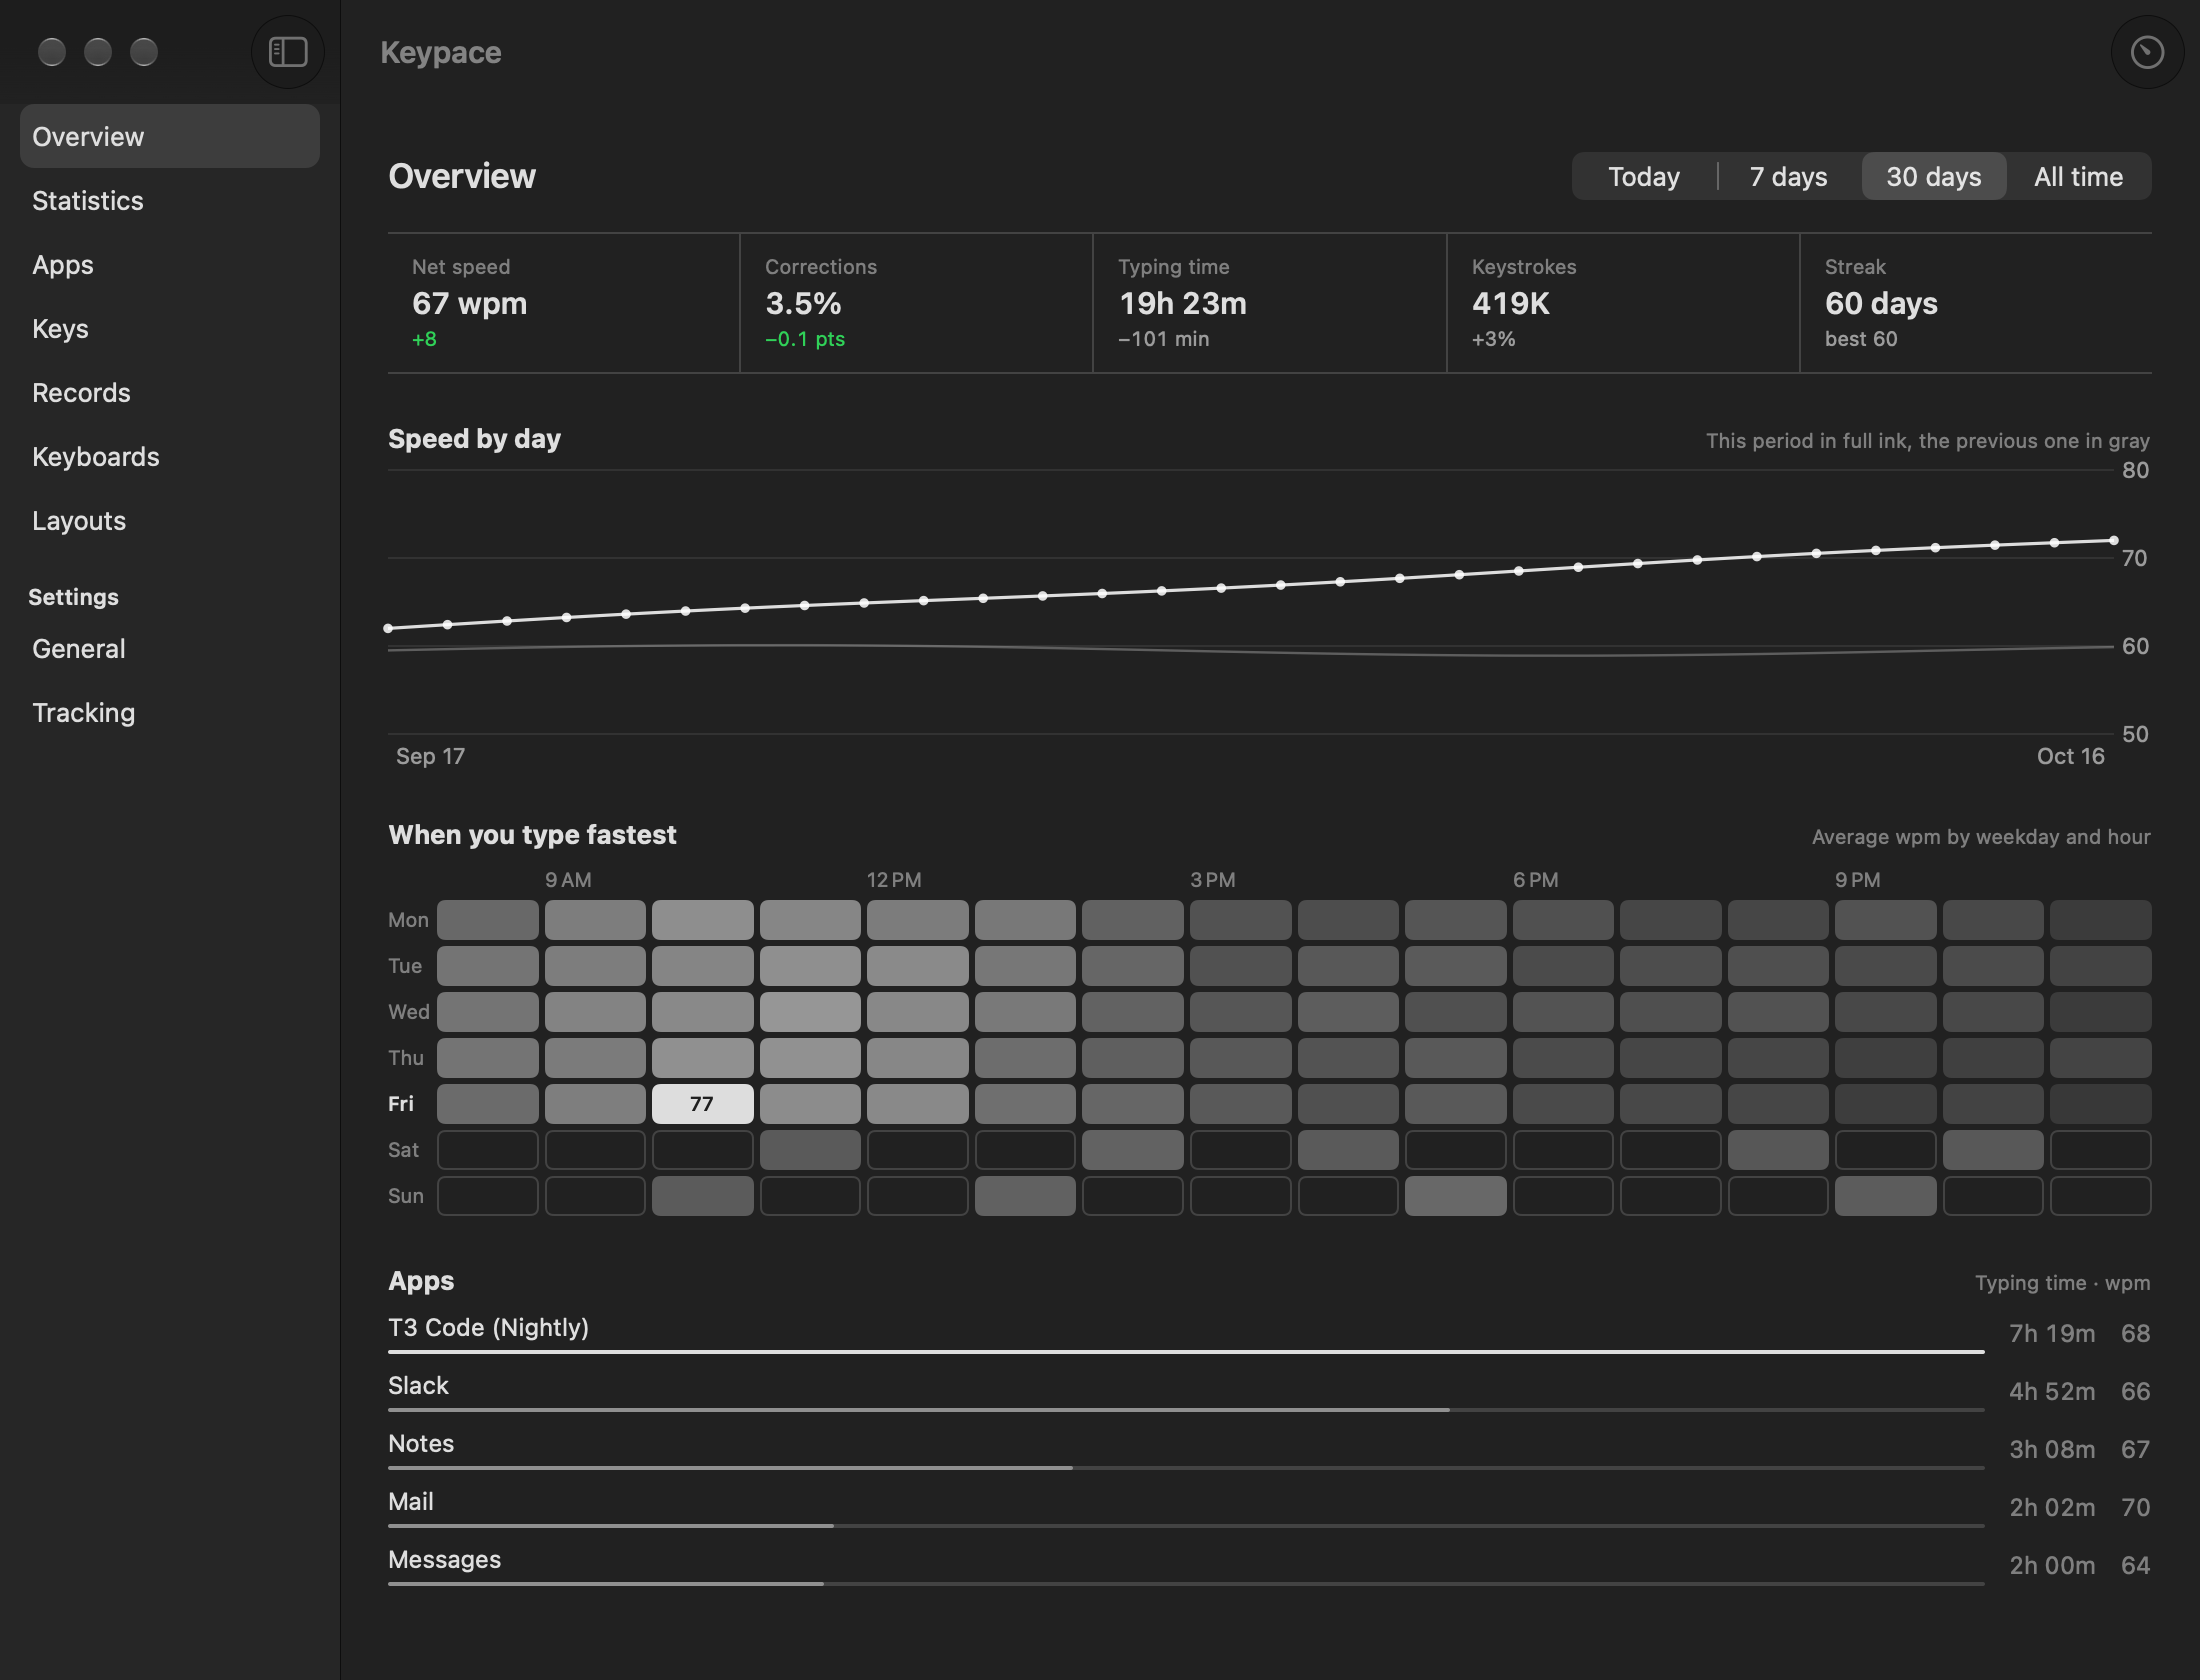
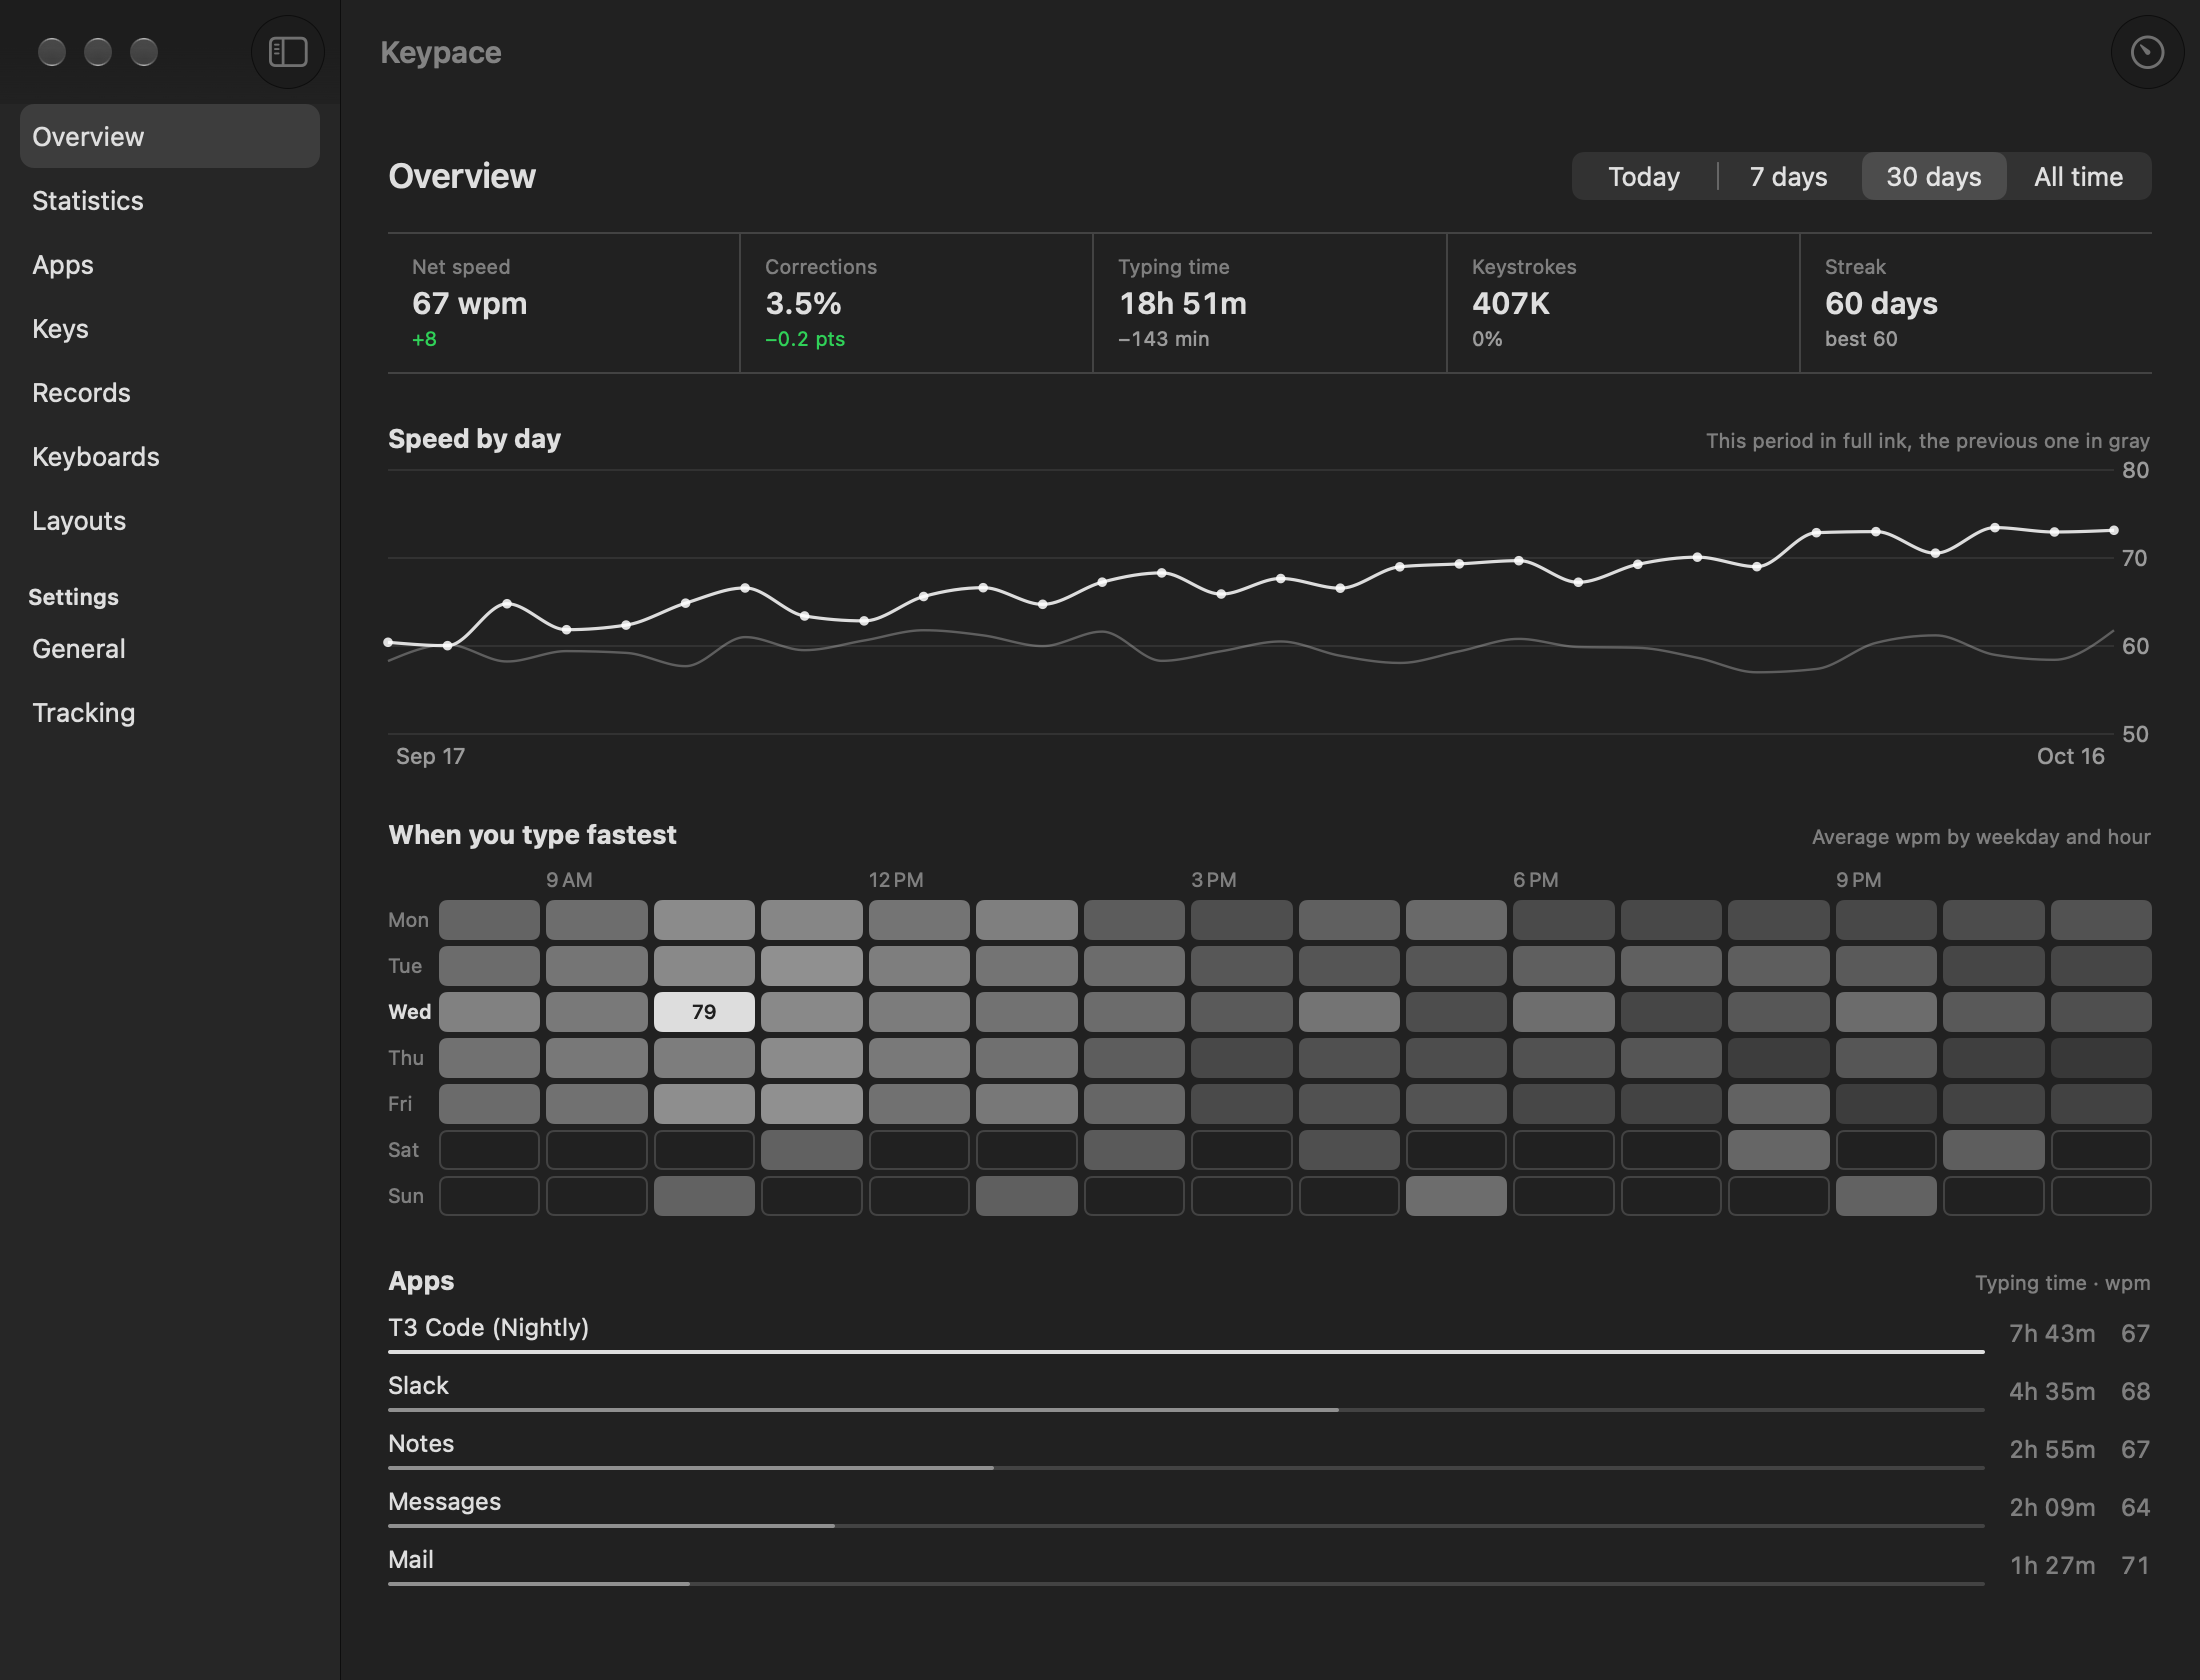
docs: give showcase speeds natural day-to-day variation

diff --git a/KeypaceTests/ReadmeHistory.swift b/KeypaceTests/ReadmeHistory.swift
@@ -7,6 +7,9 @@ enum ReadmeHistory {
     static func fill(_ tracker: LiveTracker, endingAt end: Date, calendar: Calendar = .current) throws {
         guard let store = tracker.store else { preconditionFailure("Showcase history needs an in-memory store") }
         var generator = SeededGenerator(seed: 20261016)
+        // Each weekday hour keeps its own small lean across weeks, so the heatmap isn't striped by column.
+        var cellGenerator = SeededGenerator(seed: 7)
+        let cellBias = (0..<7).map { _ in (0..<24).map { _ in Double.random(in: -3.5...3.5, using: &cellGenerator) } }
         let firstDay = calendar.date(byAdding: .day, value: -59, to: calendar.startOfDay(for: end))!
         try store.noteKeyboard(SampleData.builtIn)
         try store.noteKeyboard(SampleData.mxKeys)
@@ -21,6 +24,8 @@ enum ReadmeHistory {
             let progress = Double(max(dayIndex - 30, 0)) / 29
             let target = dayIndex < 30 ? 59.5 + 0.6 * sin(Double(dayIndex) * 0.24)
                 : 62 + 10 * progress + 0.25 * sin(progress * .pi * 3)
+            // Real days wobble around the trend.
+            let dayTarget = target + Double.random(in: -2.4...2.4, using: &generator)
             var sessions: [(session: TypingSession, start: Date)] = []
 
             for hour in hours {
@@ -74,9 +79,9 @@ enum ReadmeHistory {
                 }
                 session.activeDuration *= Double(repeats)
                 let hourlyOffset = weekend ? Double(hour % 3) - 1
-                    : 9 * exp(-pow((Double(hour) - 11) / 2.3, 2)) - 0.45 * Double(hour - 8)
+                    : 9 * exp(-pow((Double(hour) - 11) / 2.3, 2)) - 0.45 * Double(hour - 8) + cellBias[weekday - 1][hour]
                 let variation = Double.random(in: -3...3, using: &generator)
-                let duration = Double(session.totals.netCharacters) * 12 / (target + hourlyOffset + variation)
+                let duration = Double(session.totals.netCharacters) * 12 / (dayTarget + hourlyOffset + variation)
                 let timingScale = duration / session.activeDuration
                 session.pairs = session.pairs.mapValues {
                     PairTiming(count: $0.count, totalMilliseconds: $0.totalMilliseconds * timingScale)
@@ -86,9 +91,9 @@ enum ReadmeHistory {
                 sessions.append((session, start))
             }
 
-            // Keep the day-by-day line smooth even though the mix of morning/evening sessions varies.
+            // Pin each day to its target even though the mix of morning/evening sessions varies.
             let totals = sessions.reduce(TypingTotals()) { $0 + $1.session.totals }
-            let scale = (totals.wpm ?? target) / target
+            let scale = (totals.wpm ?? dayTarget) / dayTarget
             for item in sessions {
                 var session = item.session
                 session.activeDuration *= scale

diff --git a/KeypaceTests/SnapshotTests.swift b/KeypaceTests/SnapshotTests.swift
@@ -35,12 +35,16 @@ struct SnapshotTests {
         #expect((peak.value.wpm ?? 0) > (Statistics.totals(weekend).wpm ?? 0) + 3)
         let daily = Statistics.byDay(data.sessions, calendar: .current).sorted { $0.key < $1.key }
         #expect(daily.count == 30)
-        #expect(abs((daily.first?.value.wpm ?? 0) - 62) < 0.1)
-        #expect(abs((daily.last?.value.wpm ?? 0) - 72) < 0.1)
+        #expect(abs((daily.first?.value.wpm ?? 0) - 62) < 2.5)
+        #expect(abs((daily.last?.value.wpm ?? 0) - 72) < 2.5)
+        // Days wobble around a rising trend; the previous period stays flatter and slower.
+        let half = daily.count / 2
+        let firstHalf = daily.prefix(half).compactMap(\.value.wpm), secondHalf = daily.suffix(half).compactMap(\.value.wpm)
+        #expect(secondHalf.reduce(0, +) / Double(secondHalf.count) > firstHalf.reduce(0, +) / Double(firstHalf.count) + 4)
         #expect((data.previousTotals?.wpm ?? 0) < 61)
         let previousSpeeds = Statistics.byDay(data.previousSessions ?? [], calendar: .current).values.compactMap(\.wpm)
         #expect(previousSpeeds.count == 30)
-        #expect((previousSpeeds.max() ?? 0) - (previousSpeeds.min() ?? 0) < 2)
+        #expect((previousSpeeds.max() ?? 0) - (previousSpeeds.min() ?? 0) < 6.5)
         #expect((0.02...0.06).contains(data.totals.correctionRate ?? 0))
         let presses = tracker.pressCounts(in: try #require(data.interval))
         #expect(presses[USKeys.code(for: "e"), default: 0] > presses[USKeys.code(for: "z"), default: 0] * 5)
